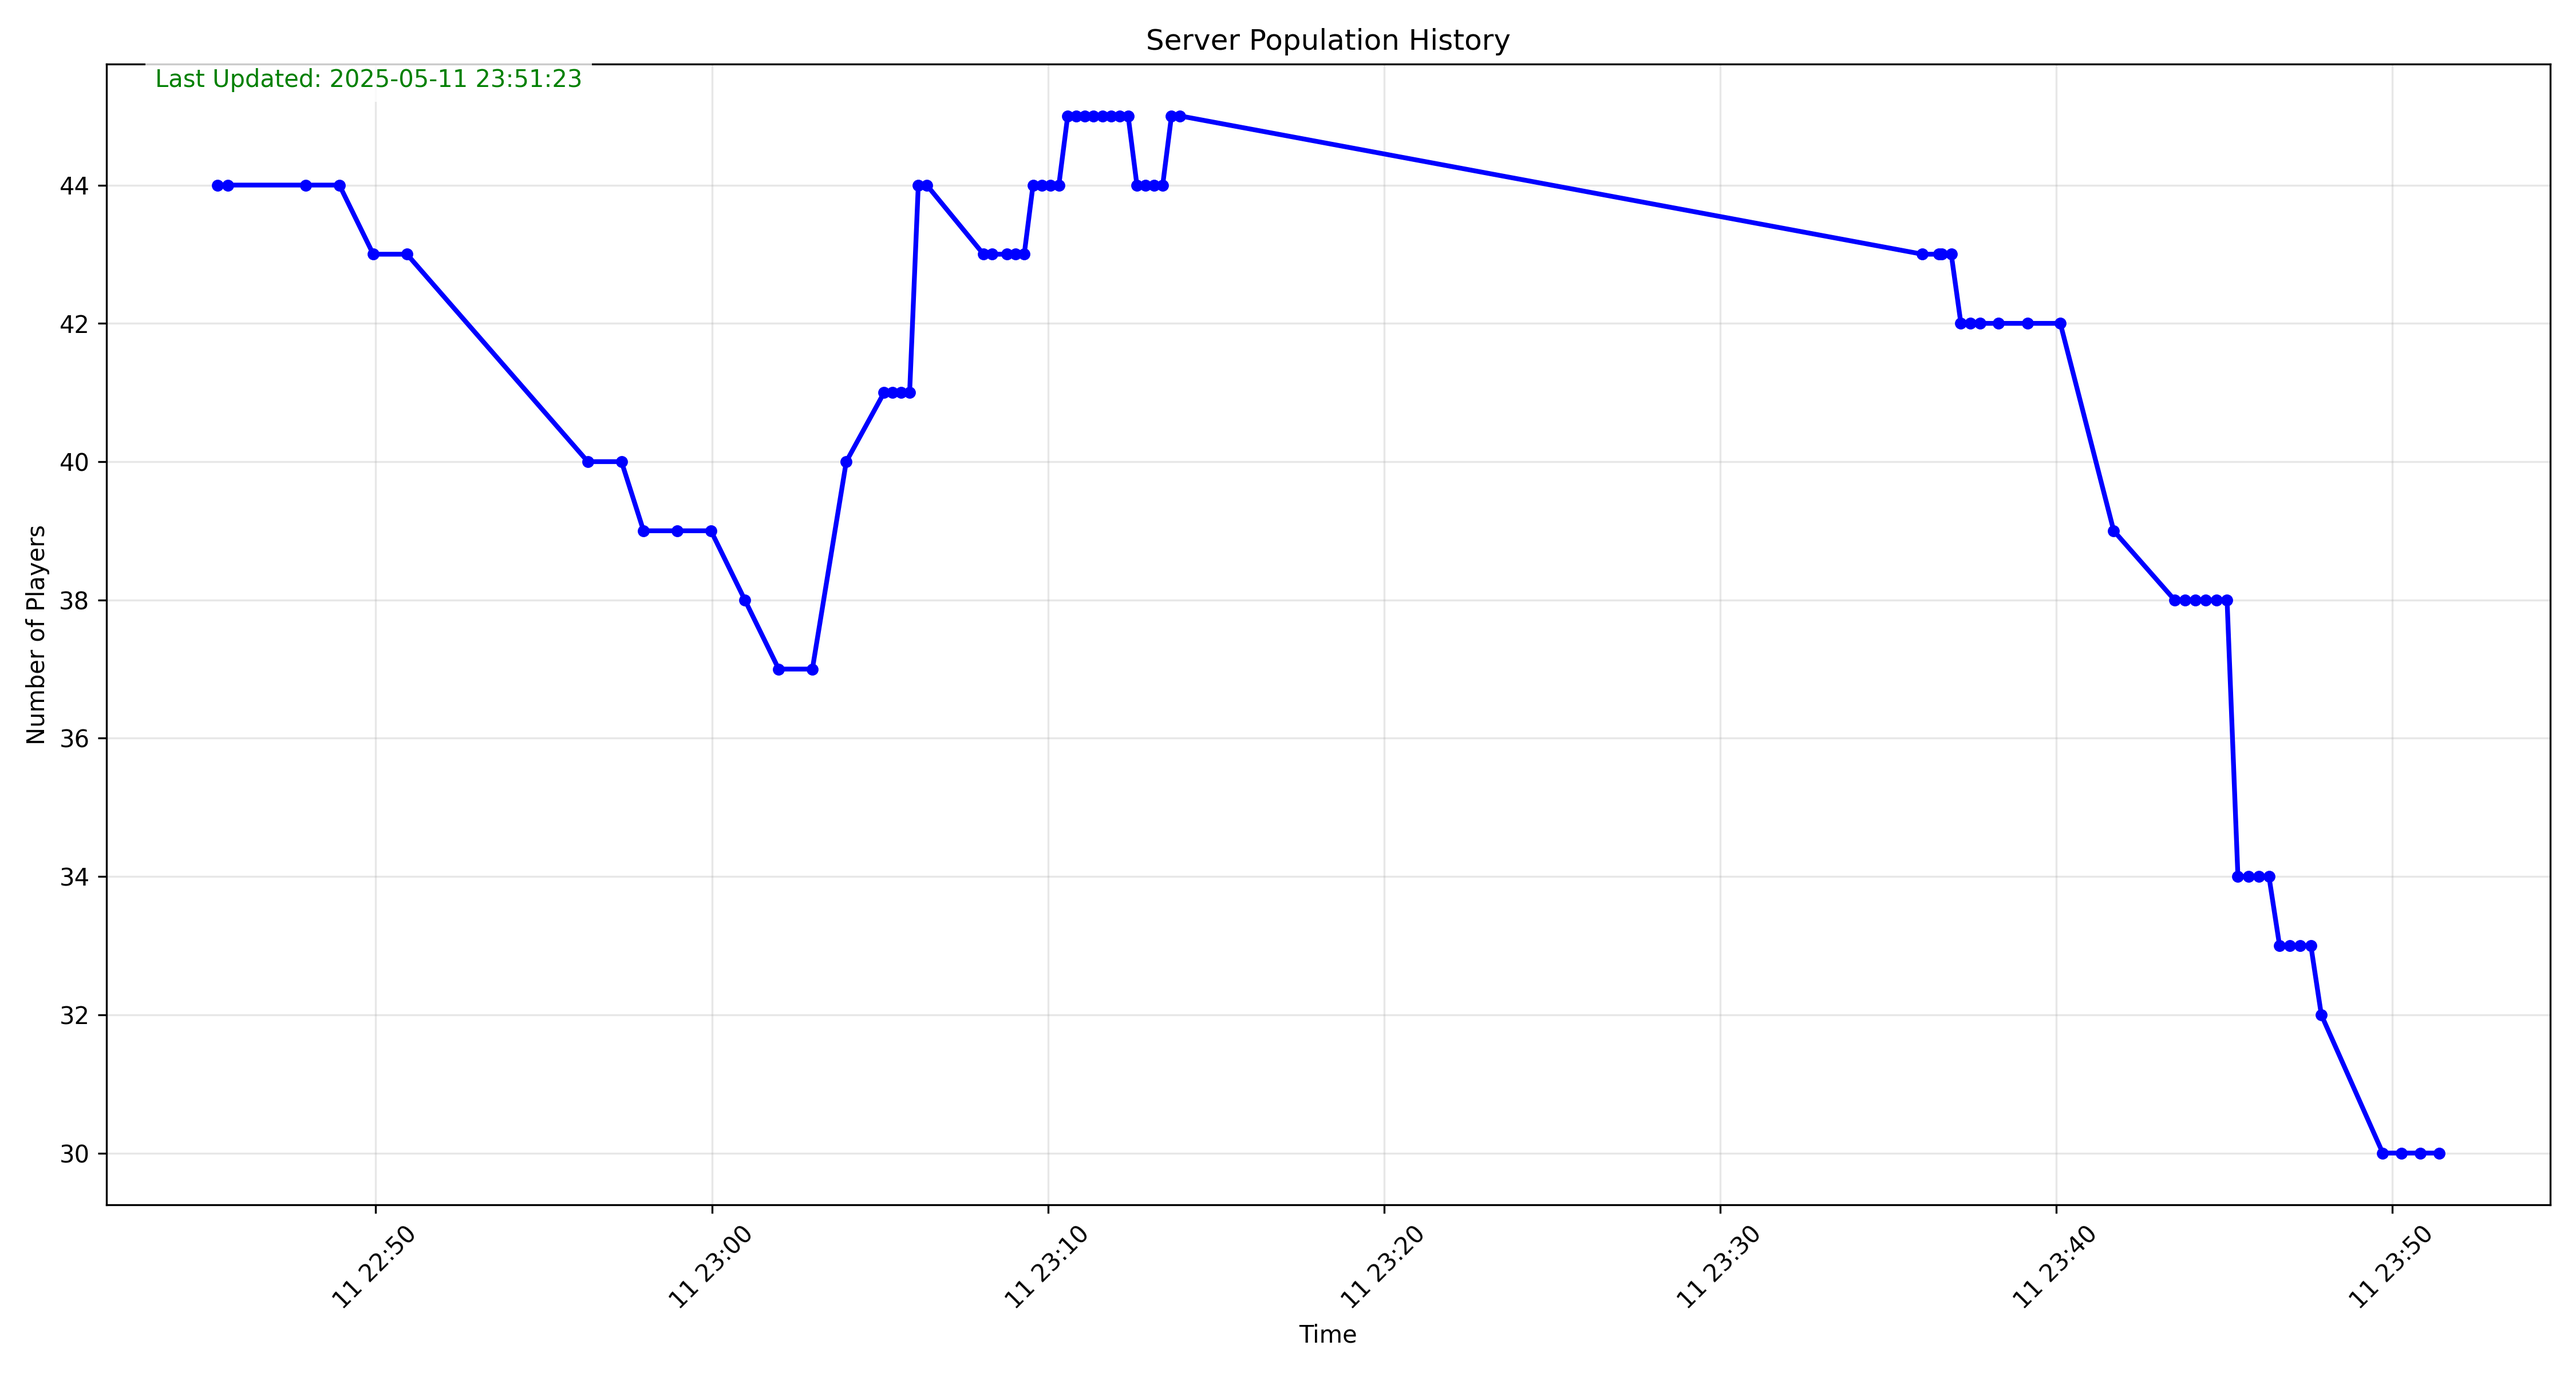
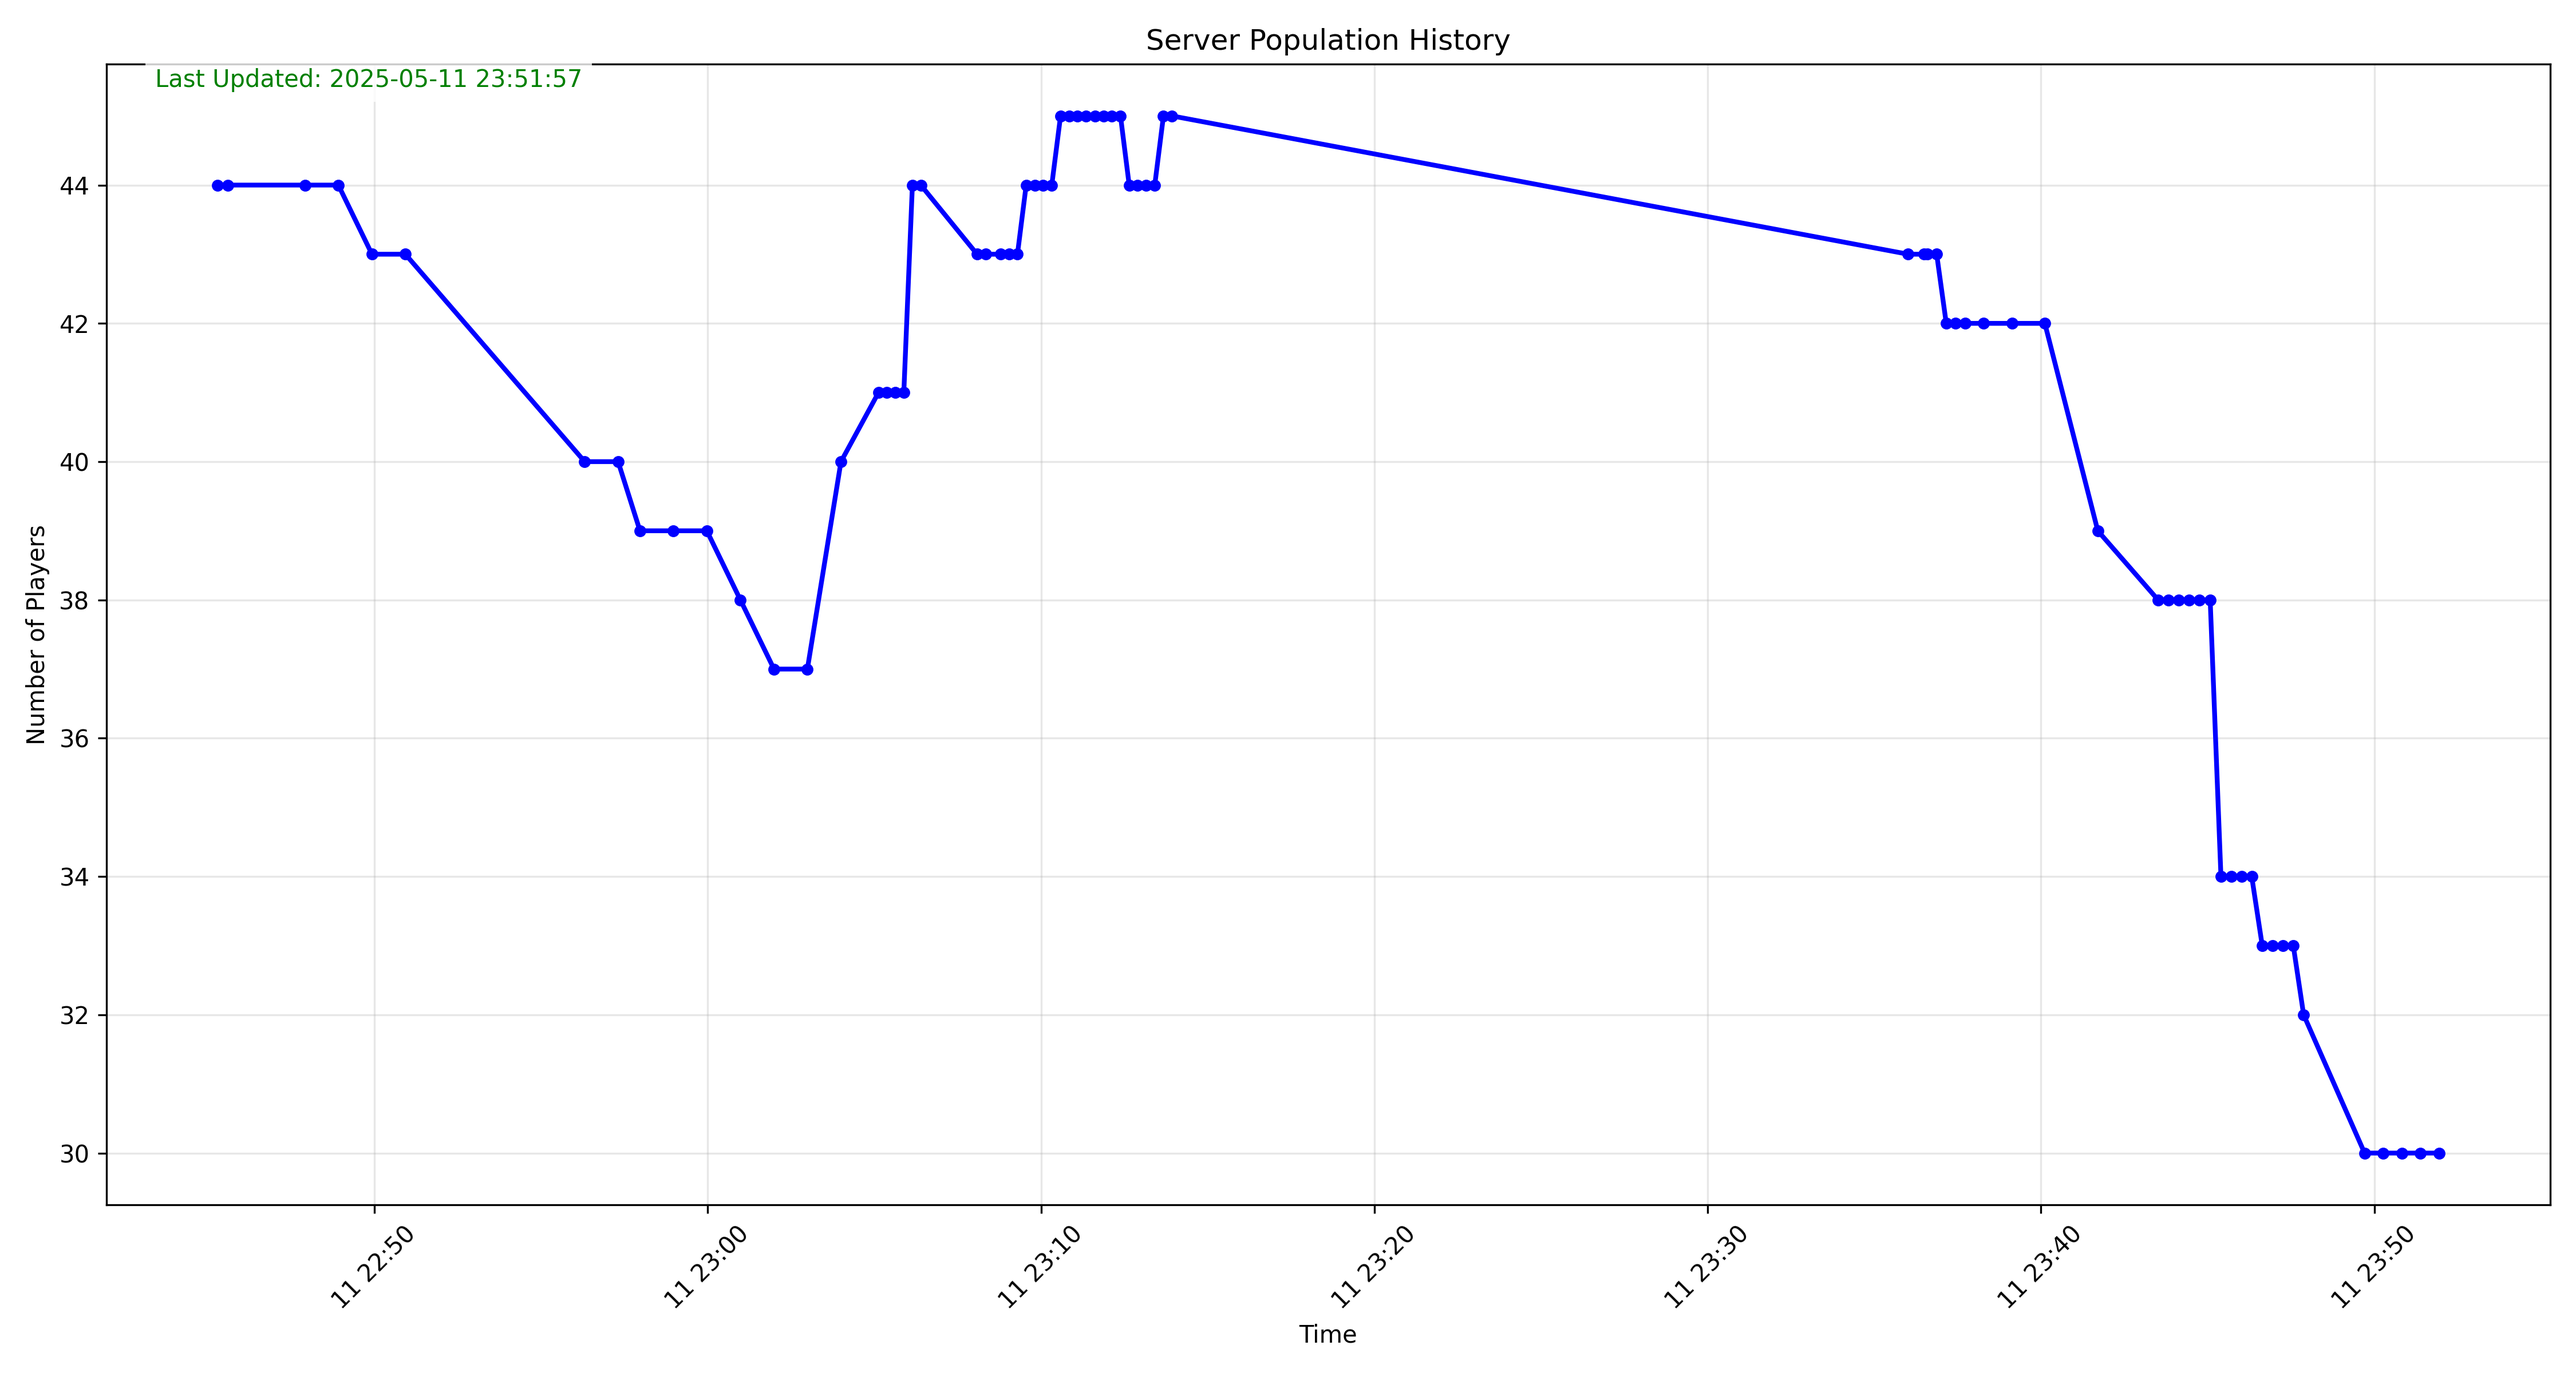
Update graph 2025-05-11 23:51:58

diff --git a/index.html b/index.html
@@ -9,7 +9,7 @@
             </style>
         </head>
         <body>
-            <div class="update-time">Last Updated: 2025-05-11 23:51:24</div>
+            <div class="update-time">Last Updated: 2025-05-11 23:51:58</div>
             <img src="server_population.png" alt="Server Population Graph">
         </body>
         </html>
